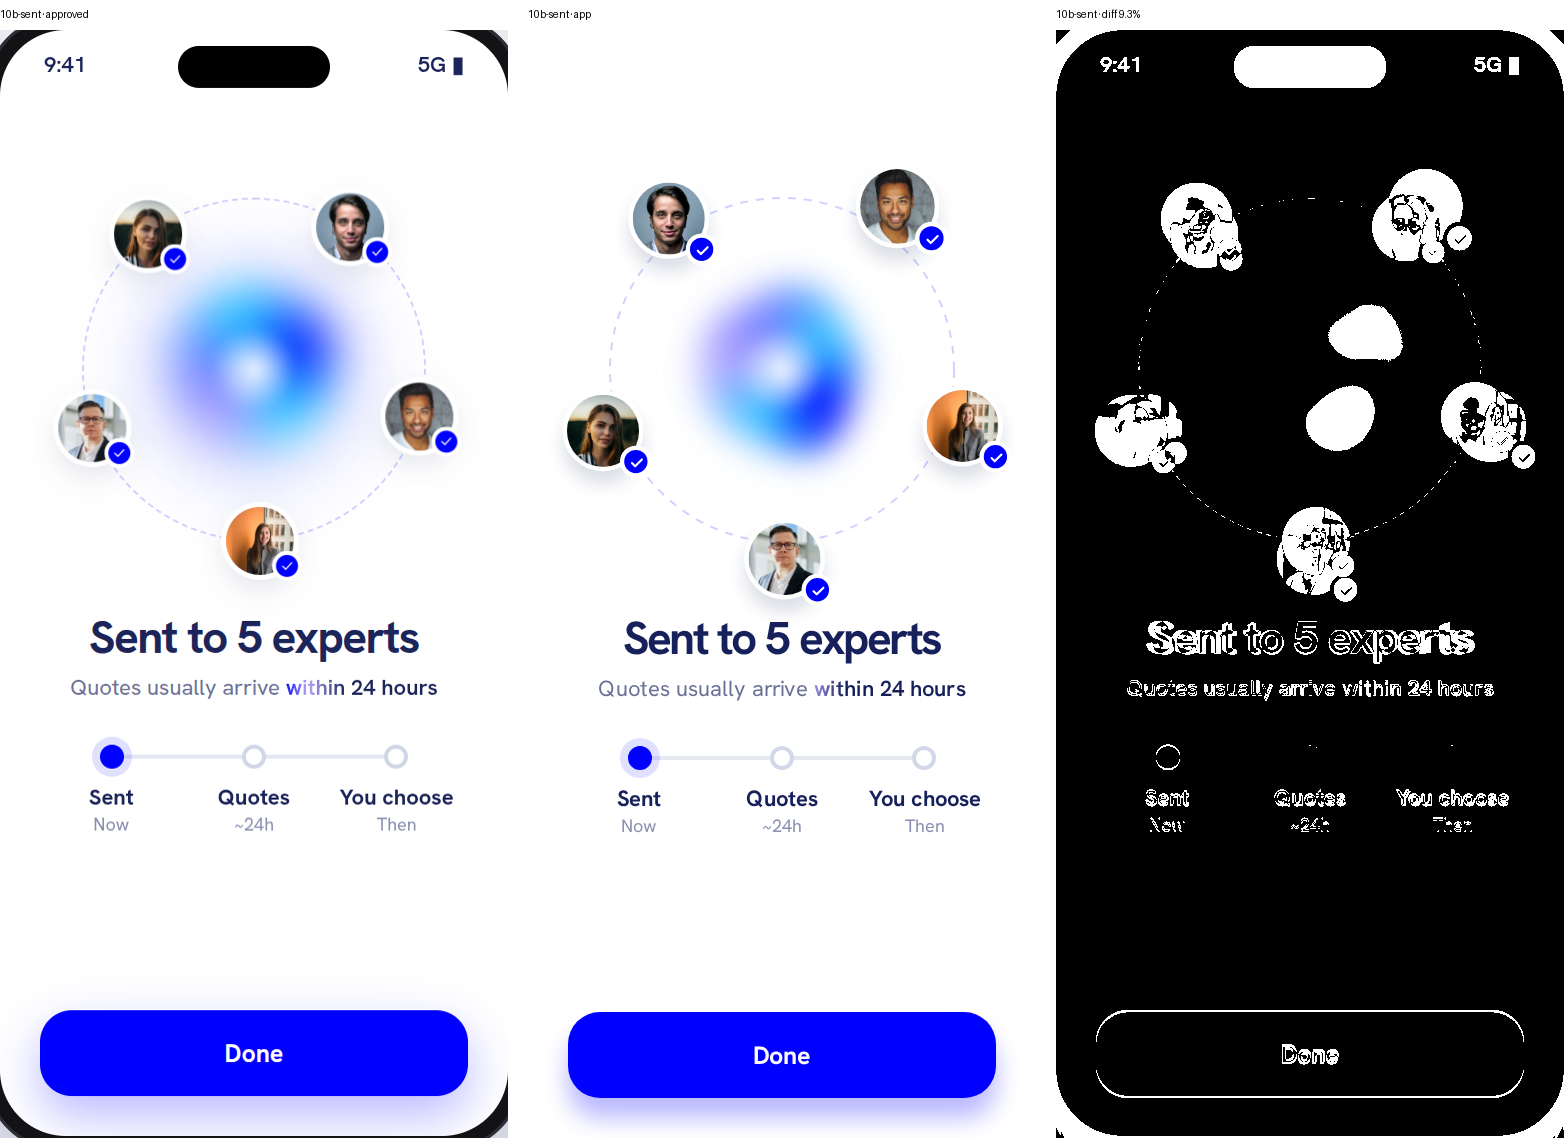
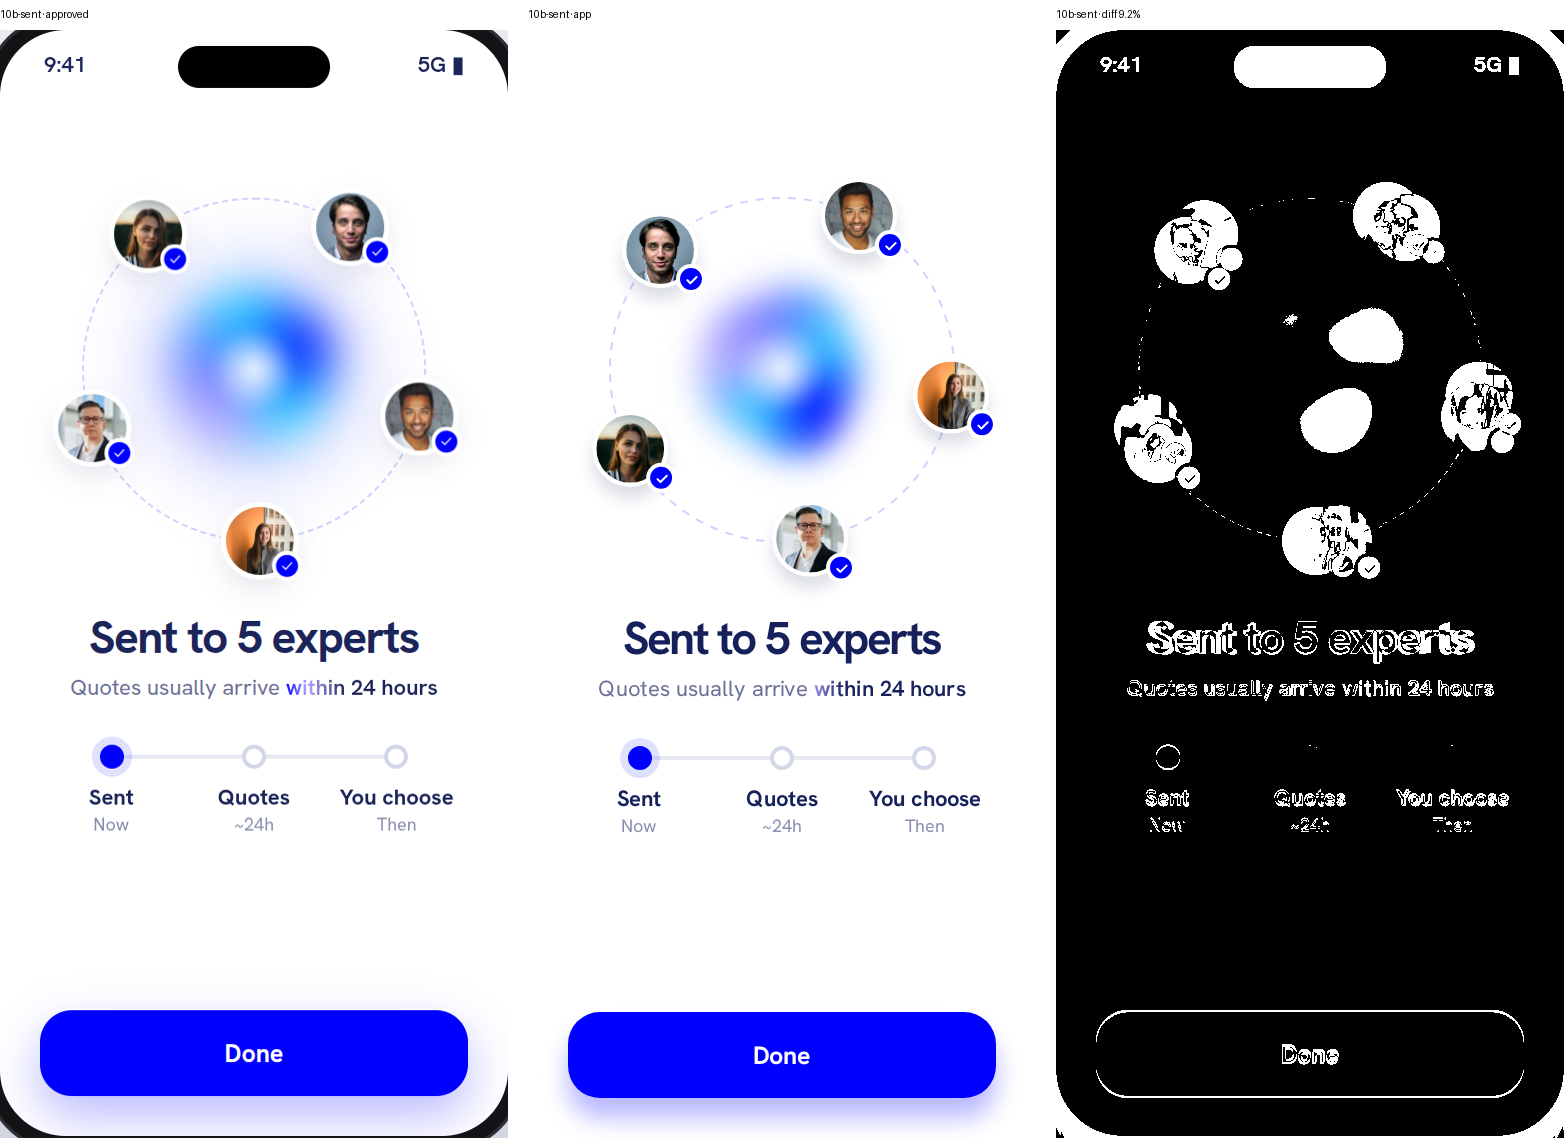
fix(mobile): synchronous send guard, snap-first segmented thumb, interval cleanup

diff --git a/mobile/src/app/(client)/request/index.tsx b/mobile/src/app/(client)/request/index.tsx
@@ -1,6 +1,6 @@
 import { Pressable, TextInput, View } from 'react-native';
 import { router, useLocalSearchParams } from 'expo-router';
-import { useEffect, useState } from 'react';
+import { useEffect, useRef, useState } from 'react';
 import Animated, { useSharedValue, useAnimatedStyle, withSpring, withTiming } from 'react-native-reanimated';
 import * as Haptics from 'expo-haptics';
 import { GradientText } from '@/fx/GradientText';
@@ -19,6 +19,7 @@ import { s } from '@/theme/scale';
 import { C, F, EASE } from '@/theme/tokens';
 
 const WHEN = [['asap', 'ASAP'], ['2w', 'Within 2 weeks'], ['flex', 'Flexible']] as const;
+type When = (typeof WHEN)[number][0];
 
 /** Caption: the summary types itself in with a shimmer, then crossfades to the settled text. */
 function TypedSummary({ text, instant }: { text: string; instant: boolean }) {
@@ -27,10 +28,11 @@ function TypedSummary({ text, instant }: { text: string; instant: boolean }) {
   const [gone, setGone] = useState(instant);
   const fade = useSharedValue(instant ? 1 : 0);
   useEffect(() => {
-    if (instant) return;
-    const id = setInterval(() => setN((v) => { if (v + 1 >= text.length) clearInterval(id); return v + 1; }), 28);
+    if (instant || done) return;
+    const id = setInterval(() => setN((v) => v + 1), 28);
     return () => clearInterval(id);
-  }, [instant, text]);
+  }, [instant, done, text]);
+  useEffect(() => { if (n >= text.length) setN(text.length); }, [n, text]);
   useEffect(() => { if (!done) return; fade.value = withTiming(1, { duration: 350, easing: EASE }); const id = setTimeout(() => setGone(true), 400); return () => clearTimeout(id); }, [done]);
   const settled = useAnimatedStyle(() => ({ opacity: fade.value }));
   const typing = useAnimatedStyle(() => ({ opacity: 1 - fade.value }));
@@ -47,12 +49,17 @@ function TypedSummary({ text, instant }: { text: string; instant: boolean }) {
 }
 
 /** Caption: the segmented control slides. Local thumb that springs to the selected segment. */
-function SlidingSeg({ value, onChange }: { value: string; onChange: (k: any) => void }) {
+function SlidingSeg({ value, onChange }: { value: When; onChange: (k: When) => void }) {
   const [w, setW] = useState(0);
   const idx = Math.max(0, WHEN.findIndex(([k]) => k === value));
   const segW = w ? (w - s(6)) / WHEN.length : 0;
-  const x = useSharedValue(idx * segW);
-  useEffect(() => { x.value = withSpring(idx * segW, { damping: 18, stiffness: 220 }); }, [idx, segW]);
+  const x = useSharedValue(0);
+  const placed = useRef(false);
+  useEffect(() => {
+    if (!segW) return;
+    if (!placed.current) { placed.current = true; x.value = idx * segW; } // first measurement: snap, no spring
+    else x.value = withSpring(idx * segW, { damping: 18, stiffness: 220 });
+  }, [idx, segW]);
   const thumb = useAnimatedStyle(() => ({ transform: [{ translateX: x.value }] }));
   return (
     <View onLayout={(ev) => setW(ev.nativeEvent.layout.width)} style={{ flexDirection: 'row', backgroundColor: '#F1F3F9', borderRadius: s(12), padding: s(3) }}>
@@ -70,9 +77,10 @@ export default function RequestQuote() {
   const { kb = 'soil-test', stay } = useLocalSearchParams<{ kb?: string; stay?: string }>();
   const e = KB.find((x) => x.id === kb) ?? KB[0];
   const [summary, setSummary] = useState(e.requestSummary); const [edit, setEdit] = useState(false); const [played, setPlayed] = useState(false);
-  const [when, setWhen] = useState<'asap' | '2w' | 'flex'>('2w'); const [busy, setBusy] = useState(false);
+  const [when, setWhen] = useState<When>('2w'); const [busy, setBusy] = useState(false);
+  const sending = useRef(false);
   const send = () => {
-    if (busy) return; setBusy(true);
+    if (sending.current) return; sending.current = true; setBusy(true);
     const id = useDemo.getState().sendRequest({ kbId: e.id, title: e.requestTitle, summary, expertType: e.recommend.expertType, when });
     simulateQuotes(id); router.replace('/request/sent');
   };

diff --git a/mobile/__tests__/request.test.tsx b/mobile/__tests__/request.test.tsx
@@ -1,4 +1,4 @@
-import { render, screen, fireEvent } from '@testing-library/react-native';
+import { render, screen, fireEvent, act } from '@testing-library/react-native';
 import { router } from 'expo-router';
 import RequestQuote from '@/app/(client)/request/index';
 import { useDemo } from '@/store/demo';
@@ -18,4 +18,14 @@ test('Pulse-written summary, one tap to send, double tap sends once', async () =
   expect(useDemo.getState().requests.filter((r) => r.kbId === 'soil-test')).toHaveLength(before + 1);
   expect(spy).toHaveBeenCalledTimes(1);
   expect(router.replace).toHaveBeenCalledWith('/request/sent');
+});
+
+test('two presses fired concurrently before re-render run the send once', async () => {
+  const spy = jest.spyOn(sim, 'simulateQuotes').mockImplementation(() => {});
+  await render(<RequestQuote />);
+  const btn = screen.getByTestId('btn');
+  // both presses are dispatched before React can re-render (and disable) the button
+  await act(async () => { void fireEvent.press(btn); void fireEvent.press(btn); });
+  expect(router.replace).toHaveBeenCalledTimes(1);
+  expect(spy).toHaveBeenCalledTimes(1);
 });
